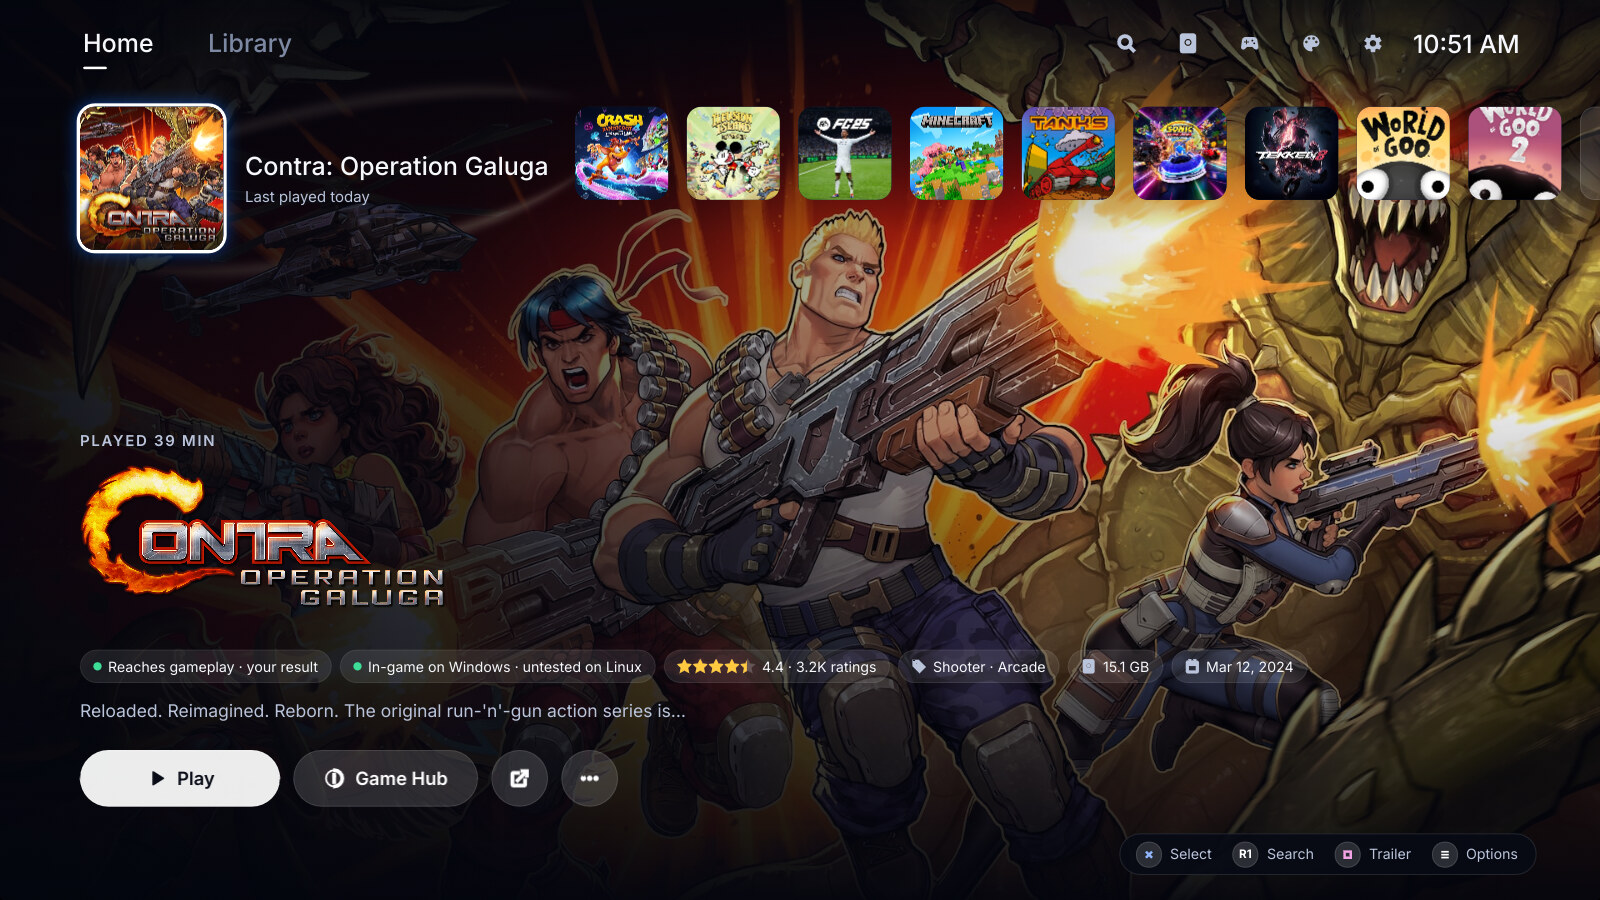
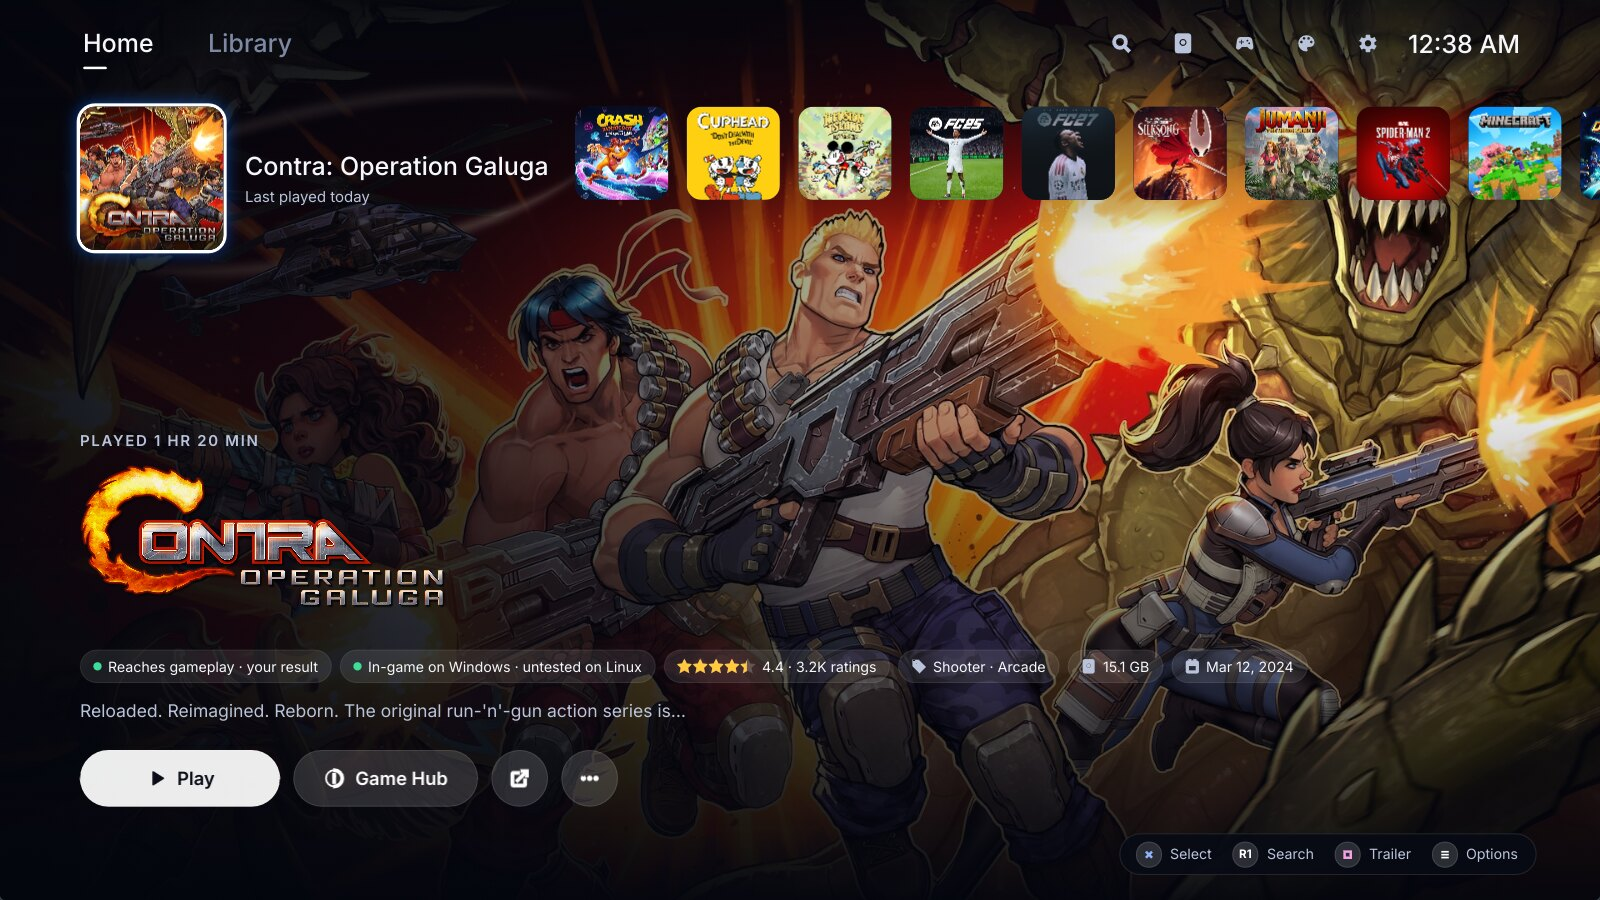
docs: new screenshots from the running app

diff --git a/README.md b/README.md
@@ -31,10 +31,10 @@ on disk can only be a theme): see [docs/plugins.md](docs/plugins.md).
 |---|---|
 | ![Game Hub](docs/screenshots/detail.jpg) | ![Settings](docs/screenshots/settings.jpg) |
 
-The screenshots show the built-in theme, `default`, on Linux, with a real library of PS5 and PC
-games. The tests also render every screen offscreen with made-up games: run
-`cargo test -p nexus-tests --test seams screenshots::`, and the PNG files go to
-`target/tmp/screenshots/`.
+The screenshots are the running app (`cargo run`, in a window of 1600 × 900) with the built-in theme,
+`default`, on Linux, with a real library of PS5, PC and Steam games. The tests also render every
+screen offscreen with made-up games: run `cargo test -p nexus-tests --test seams screenshots::`, and
+the PNG files go to `target/tmp/screenshots/`.
 
 ## The problem
 
